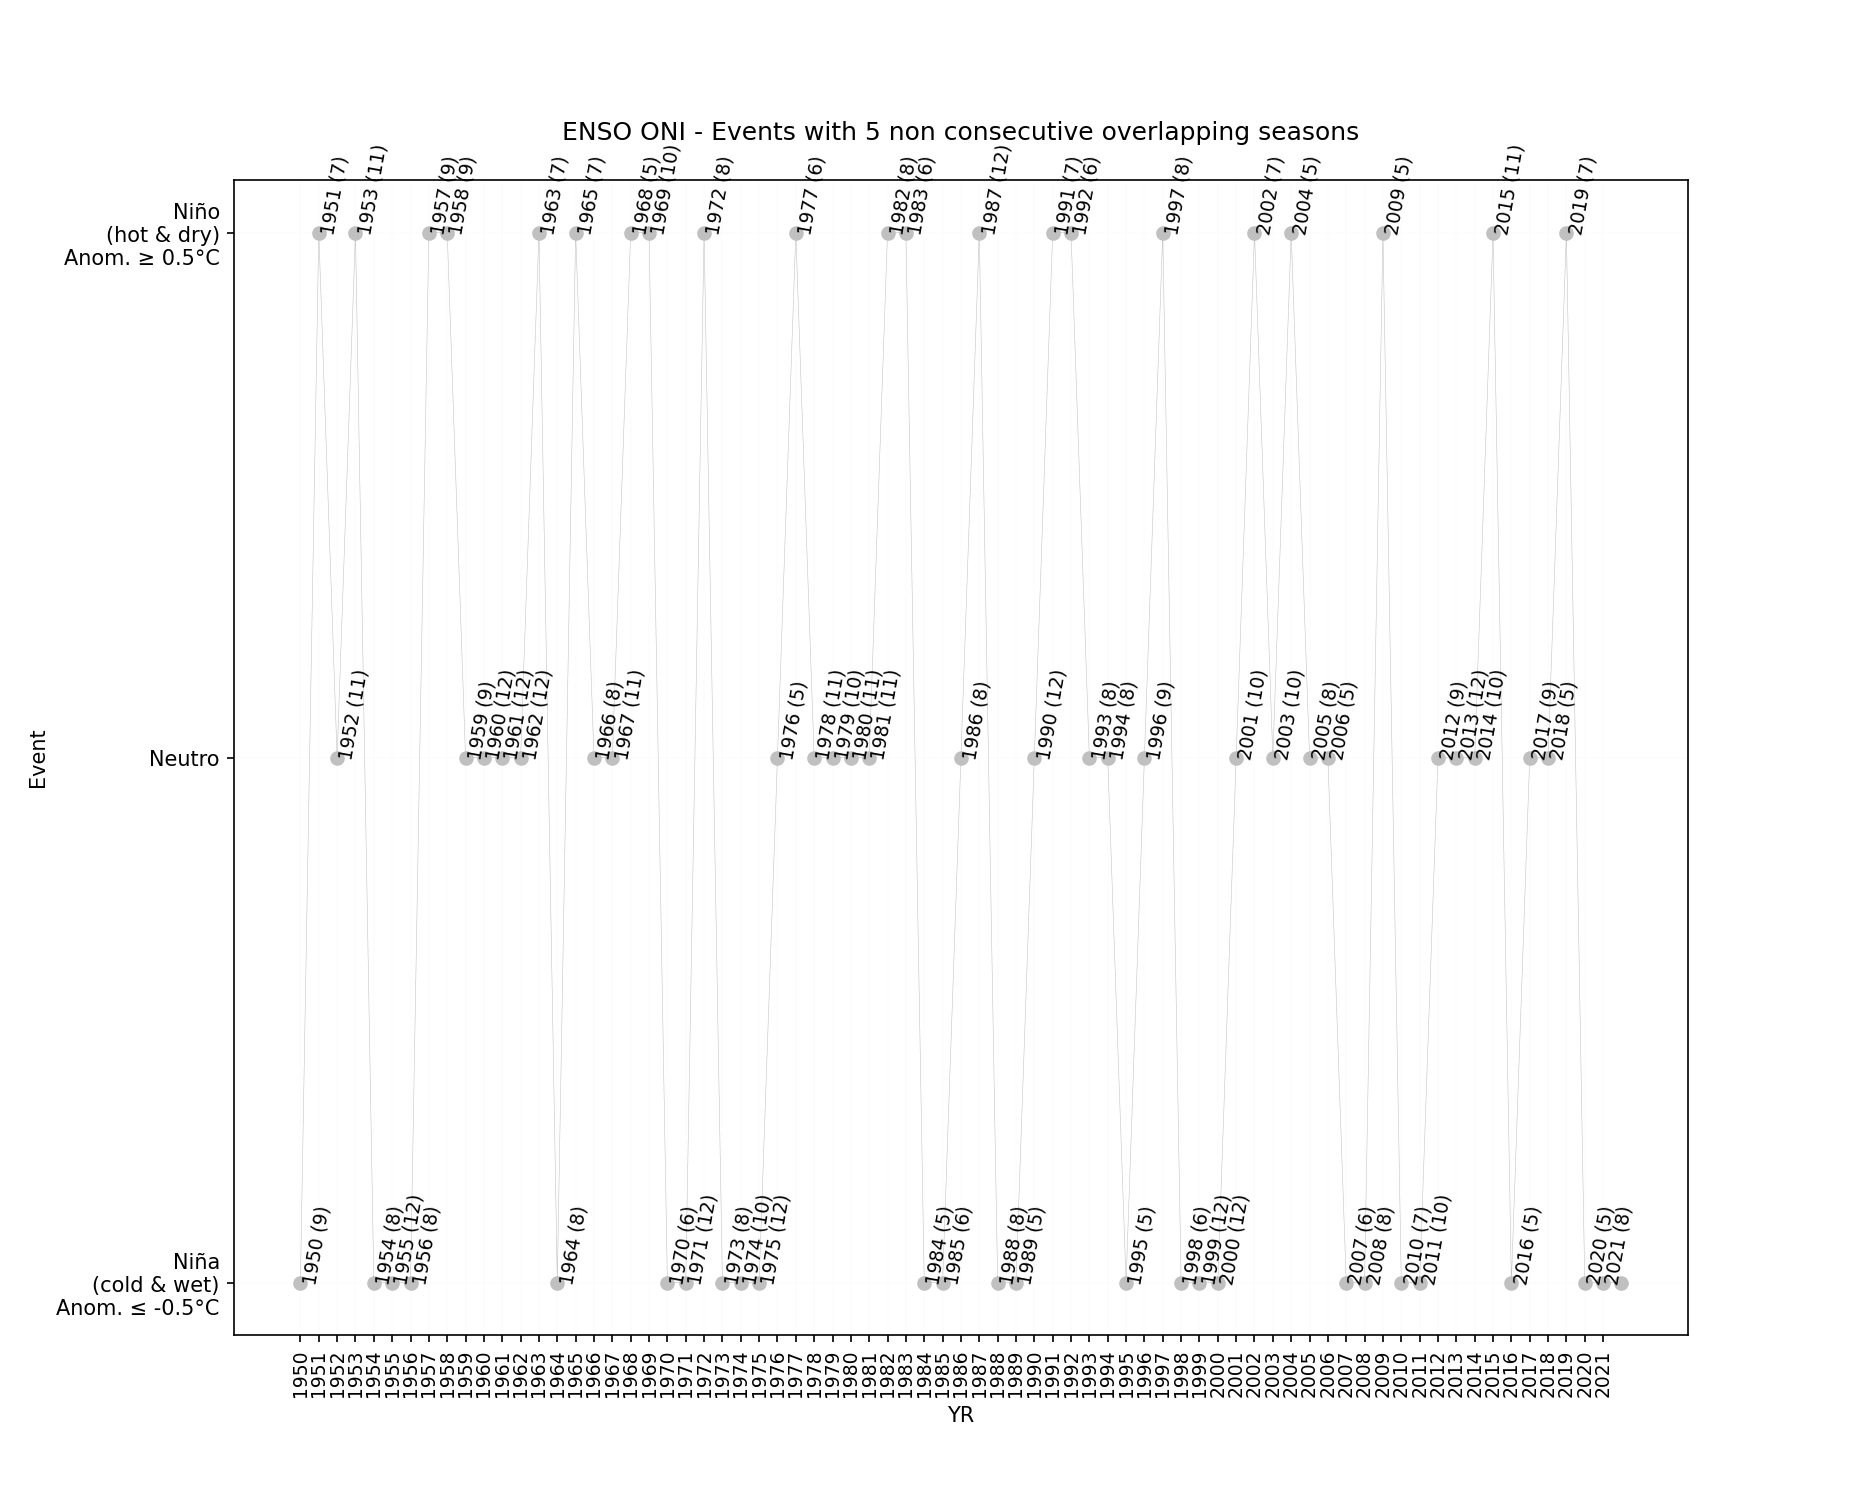
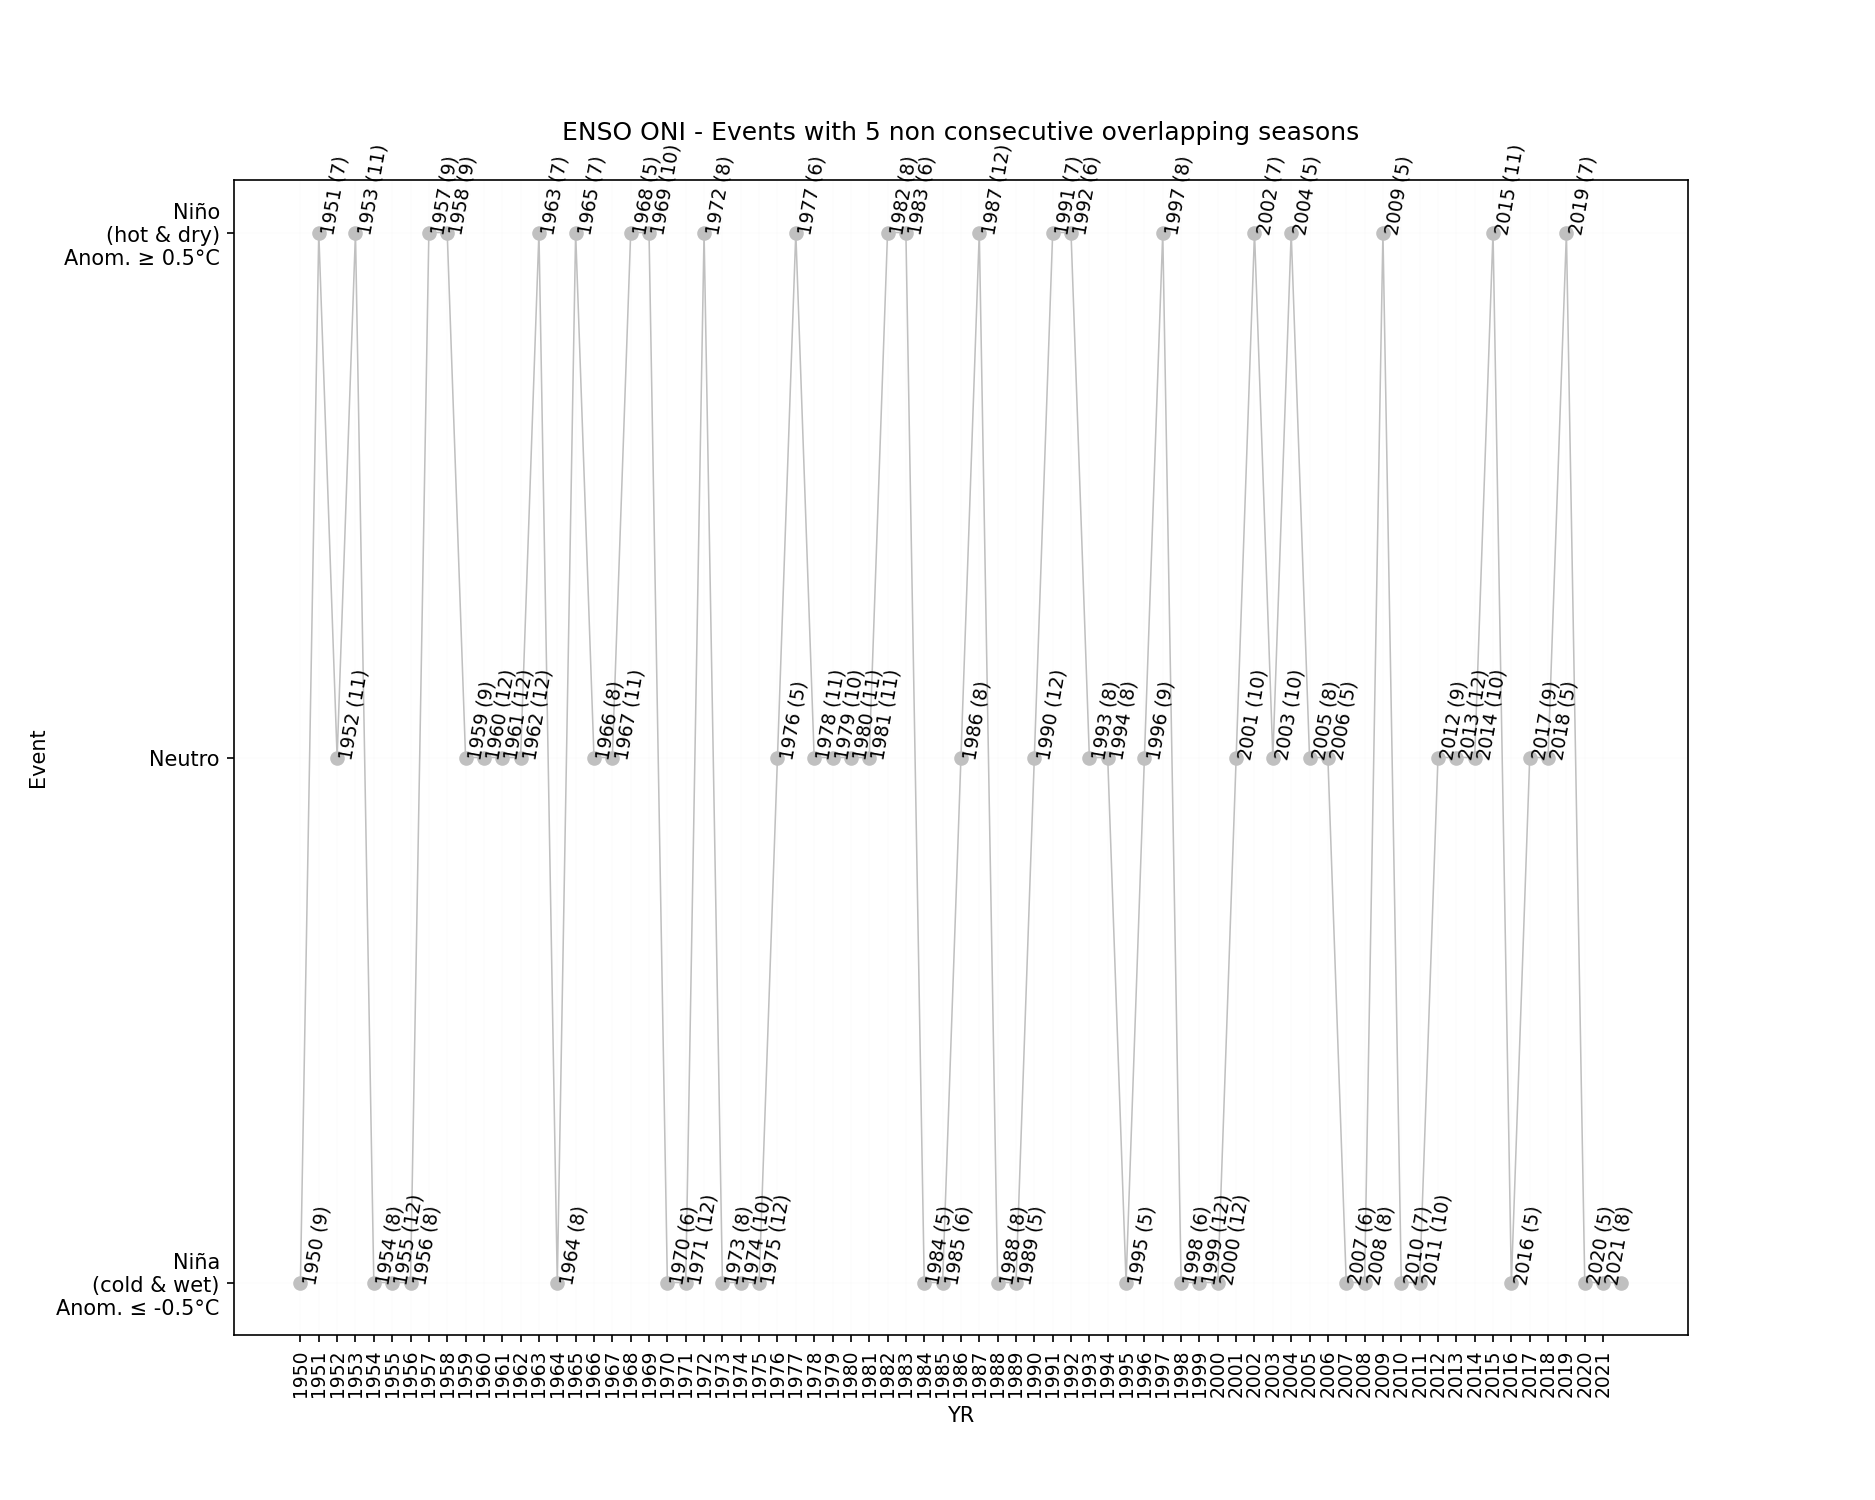
General update.

Changed region(s): [[0.2784, 0.184, 0.3093, 0.2453]]

diff --git a/.src/ENSOONI.py b/.src/ENSOONI.py
@@ -165,7 +165,7 @@ df_out.to_csv(path + analysis_file + '_NonConsecutive.csv', encoding='latin-1')
 # Plot event graph
 x = np.arange(0, df_out.shape[0]-1, 1)
 x_label = np.arange(int(df_out.index.values.min()), int(df_out.index.values.max()), 1)
-ax = df_out.plot(y='EventMark',  color='silver', legend=False, figsize=(fig_size*2.5, fig_size*2), kind='line', grid=True, style='.-', ms=12, mfc='silver', mec='silver', linewidth=0.25)
+ax = df_out.plot(y='EventMark',  color='silver', legend=False, figsize=(fig_size*2.5, fig_size*2), kind='line', grid=True, style='.-', ms=12, mfc='silver', mec='silver', linewidth=0.75)
 plt.title('ENSO ONI - Events with %s non consecutive overlapping seasons\n' % consecutive_event)
 plt.yticks([-1, 0, 1], ['Niña\n(cold & wet)\nAnom. ≤ -%s°C' % str(threshold), 'Neutro', 'Niño\n(hot & dry)\nAnom. ≥ %s°C' % str(threshold)])
 plt.xticks(x, x_label, rotation=90, size=9)
@@ -244,7 +244,7 @@ df_out.to_csv(path + analysis_file + '_Consecutive.csv', encoding='latin-1')
 # Plot event graph
 x = np.arange(0, df_out.shape[0]-1, 1)
 x_label = np.arange(int(df_out.index.values.min()), int(df_out.index.values.max()), 1)
-ax = df_out.plot(y='EventMark',  color='silver', legend=False, figsize=(fig_size*2.5, fig_size*2), kind='line', grid=True, style='.-', ms=12, mfc='silver', mec='silver', linewidth=0.25)
+ax = df_out.plot(y='EventMark',  color='silver', legend=False, figsize=(fig_size*2.5, fig_size*2), kind='line', grid=True, style='.-', ms=12, mfc='silver', mec='silver', linewidth=0.75)
 plt.title('ENSO ONI - Events with %s consecutive overlapping seasons\n' % consecutive_event)
 plt.yticks([-1, 0, 1], ['Niña\n(cold & wet)\nAnom. ≤ -%s°C' % str(threshold), 'Neutro', 'Niño\n(hot & dry)\nAnom. ≥ %s°C' % str(threshold)])
 plt.xticks(x, x_label, rotation=90, size=9)
